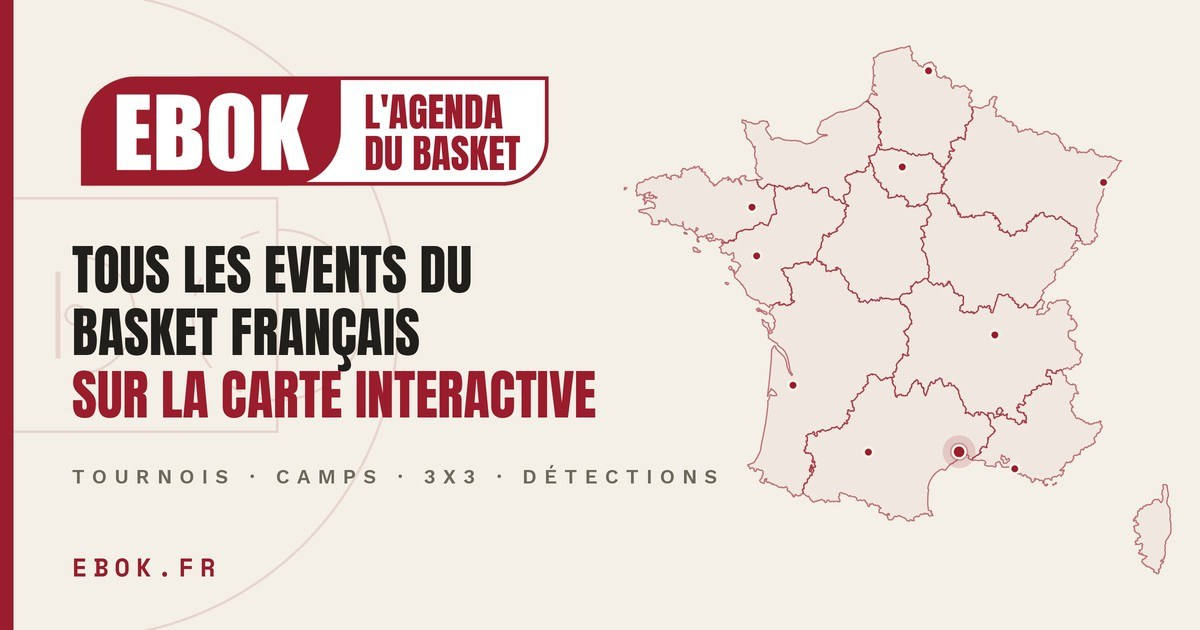
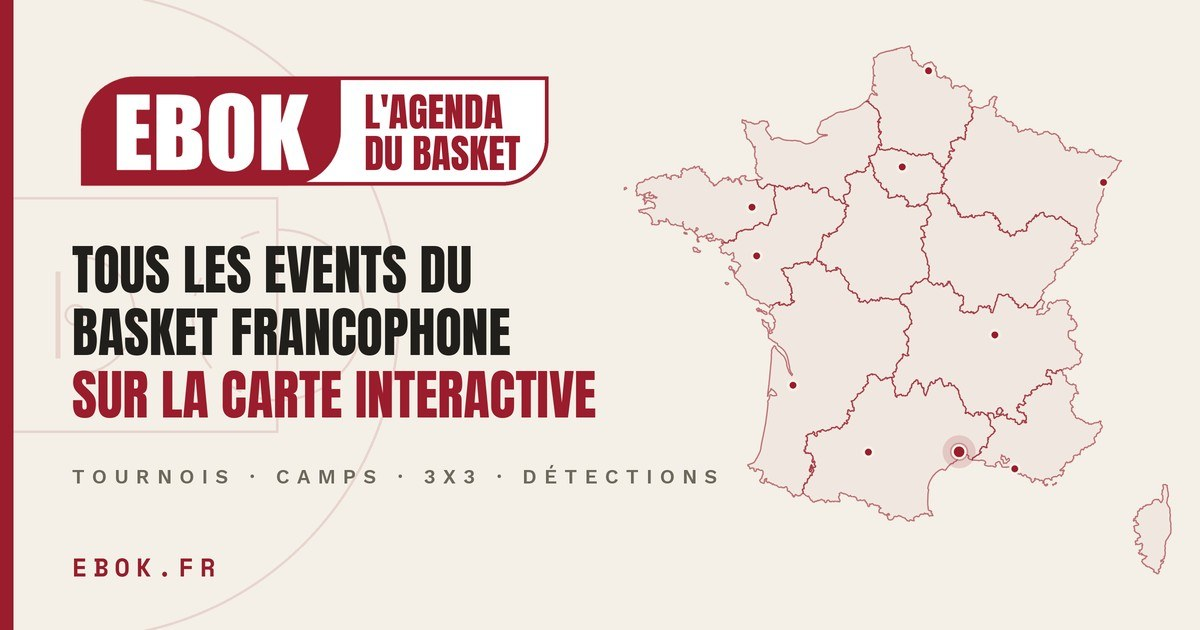
Image de partage : « basket francophone »
La phrase devient « Tous les events du basket francophone sur la carte
interactive », sur l'image et dans og:description / og:image:alt.

Claude-Session: https://claude.ai/code/session_01XyUKpvLvxJshpHvZL9sWVo

Changed region(s): [[0.2775, 0.4825, 0.4317, 0.6032]]

diff --git a/public/index.html b/public/index.html
@@ -15,12 +15,12 @@
 <meta property="og:site_name" content="EBOK">
 <meta property="og:locale" content="fr_FR">
 <meta property="og:title" content="EBOK — L'agenda collaboratif du basket français">
-<meta property="og:description" content="Tous les events du basket français sur la carte interactive : tournois, camps, 3x3, détections, clinics…">
+<meta property="og:description" content="Tous les events du basket francophone sur la carte interactive : tournois, camps, 3x3, détections, clinics…">
 <meta property="og:url" content="https://ebok.fr/">
 <meta property="og:image" content="https://ebok.fr/assets/og-image.jpg">
 <meta property="og:image:width" content="1200">
 <meta property="og:image:height" content="630">
-<meta property="og:image:alt" content="EBOK — Tous les events du basket français sur la carte interactive">
+<meta property="og:image:alt" content="EBOK — Tous les events du basket francophone sur la carte interactive">
 <meta name="twitter:card" content="summary_large_image">
 <!-- og:end -->
 <!-- Icône d'onglet (favicon) — ballon EBOK, généré en SVG + PNG de secours -->
